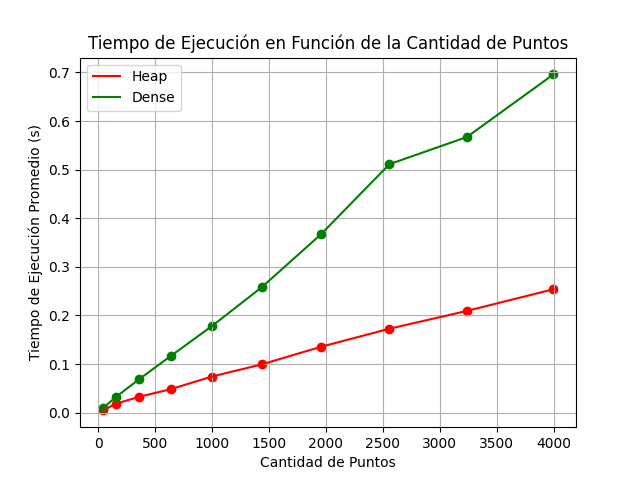
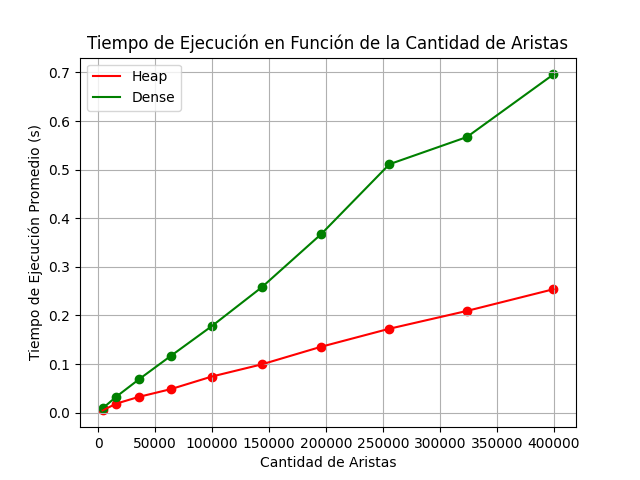
grafico

Changed region(s): [[0.125, 0.0625, 0.875, 0.125], [0.1875, 0.9062, 0.9062, 1.0]]

diff --git a/Experimentacion/experimentacion.py b/Experimentacion/experimentacion.py
@@ -121,8 +121,8 @@ def graph_linear(b):
         plt.scatter(n_list, imp.t, color=imp.color)
 
 
-    plt.title('Tiempo de Ejecución en Función de la Cantidad de Puntos')
-    plt.xlabel('Cantidad de Puntos')
+    plt.title('Tiempo de Ejecución en Función de la Cantidad de Aristas')
+    plt.xlabel('Cantidad de Aristas')
     plt.ylabel('Tiempo de Ejecución Promedio (s)')
     plt.legend()
     plt.grid(True)
@@ -131,15 +131,15 @@ def graph_linear(b):
     plt.savefig('grafico.png')
 
 print("Creando tests:...")
-create_tests_linear()
+# create_tests_linear()
 print("Listo!\n")
 
 print("Ejecutando algoritmos:...")
-run_linear()
+# run_linear()
 print("Listo!\n")
 
-n_list = [(kkk * (kkk-1)) // 1000 for kkk in n_list]
+n_list = [(kkk * (kkk-1)) // 10 for kkk in n_list]
 
 print("Creando grafico:...")
-graph_linear(False)
+graph_linear(True)
 print("Listo!\n")
